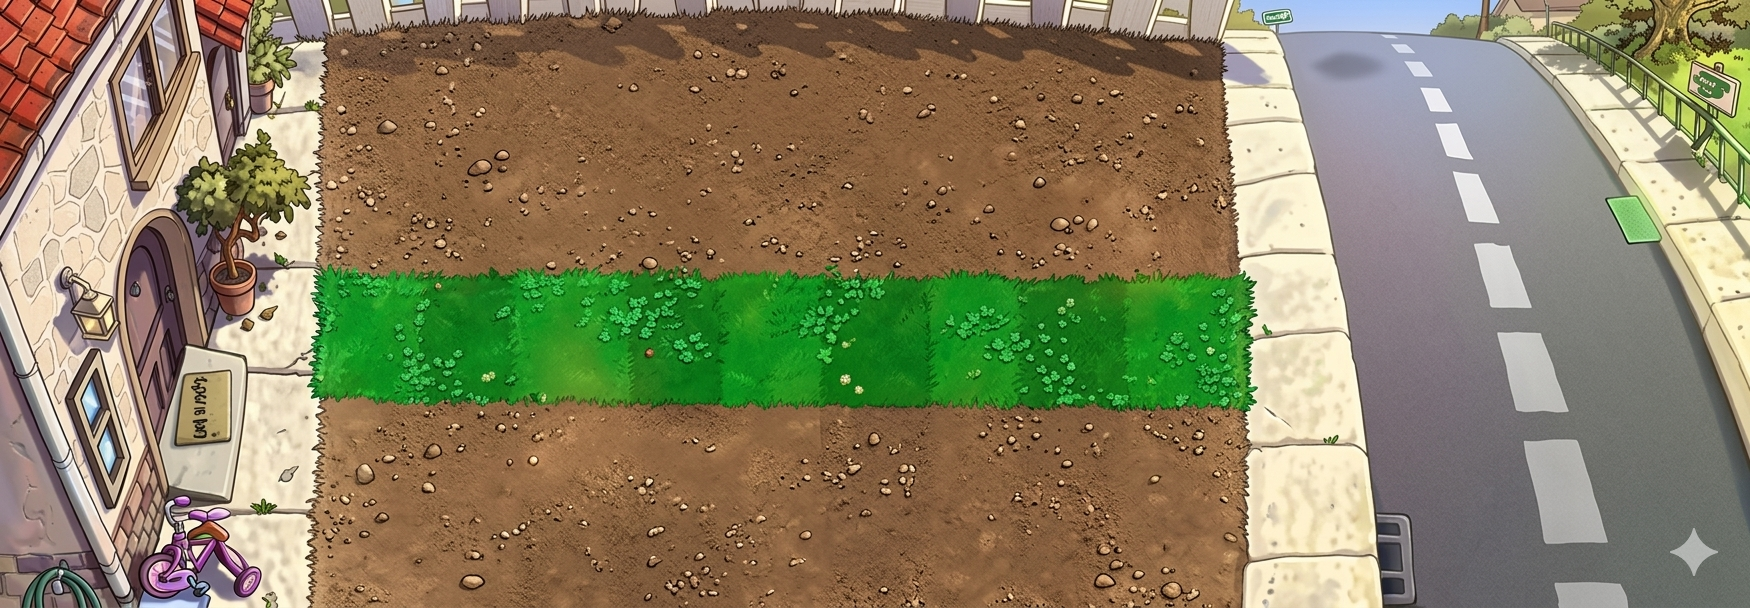
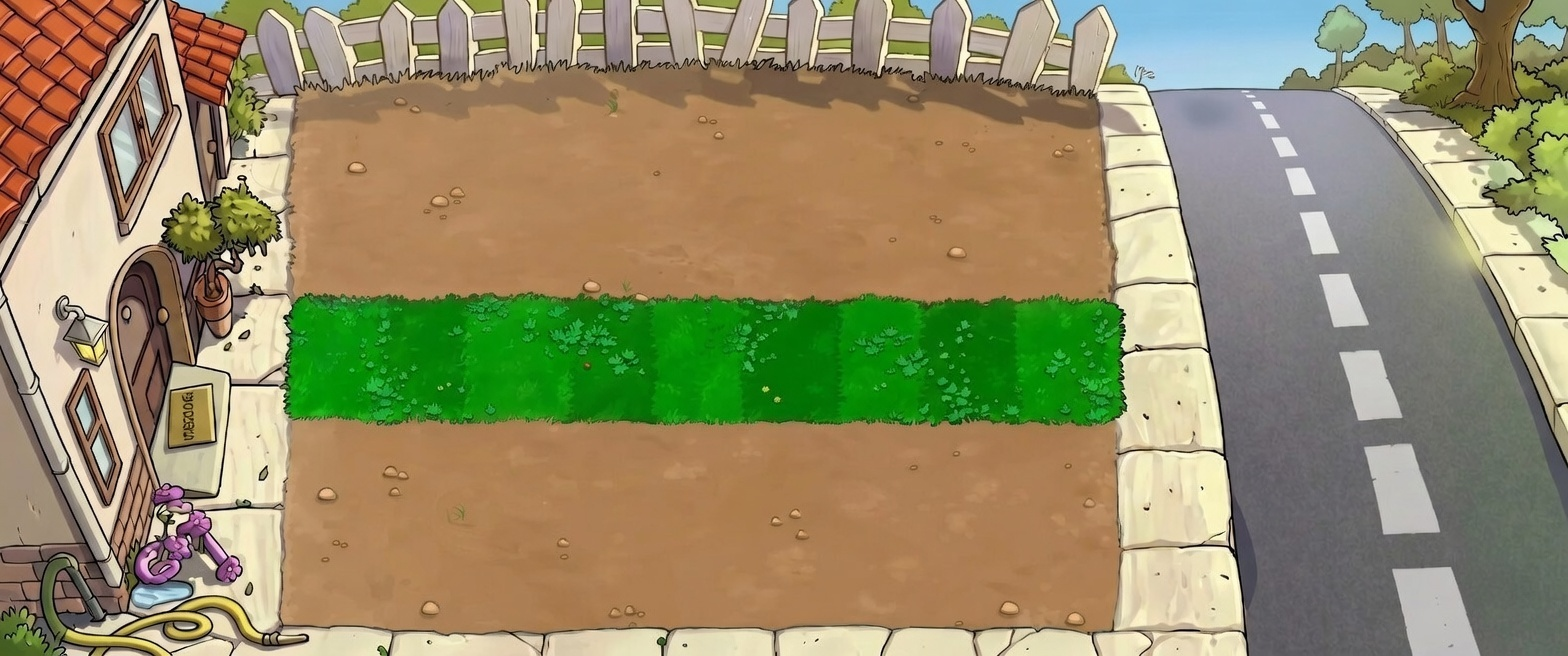
save

diff --git a/src/LevelManager.cpp b/src/LevelManager.cpp
@@ -4,76 +4,254 @@
 LevelManager::LevelManager(int level)
     : m_CurrentLevel(level) {}
 
+bool LevelManager::IsGameLevel() const {
+    return m_CurrentLevel != 0;
+}
+
 void LevelManager::LoadLevel(Util::Renderer& root) {
 
-    switch (m_CurrentLevel) {
-
-        case 0: {
-
-            m_Background = std::make_shared<Util::GameObject>(
-                std::make_shared<Util::Image>(
-                    RESOURCE_DIR"/Image/Background/startBackGround.png"
-                ),
-                -10
-            );
-
-            root.AddChild(m_Background);
-
-            auto startButton = std::make_shared<Button>(
-                RESOURCE_DIR"/Image/Other/startButton.png",
-                RESOURCE_DIR"/Image/Other/startButton_2.png"
-            );
-
-            startButton->SetZIndex(5);
-            startButton->SetScale(0.7f, 0.7f);
-            startButton->SetPosition(260.0f, 210.0f);
-
-            root.AddChild(startButton);
-            m_Buttons.push_back(startButton);
-
-            break;
-        }
-
-        case 1: {
-
-            m_Background = std::make_shared<Util::GameObject>(
-                std::make_shared<Util::Image>(
-                    RESOURCE_DIR"/Image/Background/phase1.png"
-                ),
-                -10
-            );
-
-            root.AddChild(m_Background);
-
-            break;
-        }
+    if (m_CurrentLevel == 0) {
+        m_Background = std::make_shared<Util::GameObject>(
+            std::make_shared<Util::Image>(RESOURCE_DIR"/Image/Background/startBackGround.png"),
+            -10
+        );
     }
+    else {
+        std::string path;
+
+        switch (m_CurrentLevel) {
+            case 1: path = RESOURCE_DIR"/Image/Background/phase1.png"; break;
+            case 2: path = RESOURCE_DIR"/Image/Background/phase2.png"; break;
+            case 3: path = RESOURCE_DIR"/Image/Background/phase3.png"; break;
+            default: path = RESOURCE_DIR"/Image/Background/phase3.png"; break;
+        }
+
+        m_Background = std::make_shared<Util::GameObject>(
+            std::make_shared<Util::Image>(path),
+            -10
+        );
+
+        m_Background->m_Transform.scale.x = 1.1f;
+        m_Background->m_Transform.scale.y = 1.1f;
+
+        m_Background->m_Transform.translation.x = 200.0f;
+
+        m_IntroPhase = 0;
+        m_IntroDone = false;
+        m_Timer = 0;
+    }
+
+    // ===== UI =====
+    if (m_CurrentLevel == 0) {
+        auto startButton = std::make_shared<Button>(
+            RESOURCE_DIR"/Image/Other/startButton.png",
+            RESOURCE_DIR"/Image/Other/startButton_2.png"
+        );
+
+        startButton->SetZIndex(5);
+        startButton->SetScale(0.7f, 0.7f);
+        startButton->SetPosition(260.0f, 210.0f);
+
+        root.AddChild(startButton);
+        m_Buttons.push_back(startButton);
+    }
+
+    root.AddChild(m_Background);
 }
 
 void LevelManager::Update(Util::Renderer& root) {
 
     auto mousePos = Util::Input::GetCursorPosition();
 
+    // ===== 按鈕 =====
     for (auto& btn : m_Buttons) {
-
         btn->UpdateHoverState(mousePos.x, mousePos.y);
 
         if (btn->IsClicked()) {
             ChangeLevel(1, root);
-             break;
+            return;
         }
     }
 
+    // ===== 🧩 卡片槽滑入動畫 =====
+    if (m_CardSlotActive && m_CardSlot) {
+
+        float speed = 15.0f; // 👉 控制滑下速度
+
+        if (m_CardSlot->m_Transform.translation.y > m_CardSlotTargetY) {
+            m_CardSlot->m_Transform.translation.y -= speed;
+        } else {
+            m_CardSlot->m_Transform.translation.y = m_CardSlotTargetY;
+        }
+    }
+
+    // ===== 🔤 Word動畫 =====
+    if (m_IntroDone && m_WordPhase > 0) {
+        m_WordTimer++;
+
+        auto LerpScale = [](float a, float b, float t) {
+            return a + (b - a) * t;
+        };
+
+        switch (m_WordPhase) {
+            case 1: {
+                float t = m_WordTimer / 30.0f;
+                if (t > 1.0f) t = 1.0f;
+
+                m_Word->m_Transform.scale.x = LerpScale(0.2f, 0.3f, t);
+                m_Word->m_Transform.scale.y = LerpScale(0.2f, 0.3f, t);
+
+                if (m_WordTimer > 30) {
+                    root.RemoveChild(m_Word);
+                    m_Word = std::make_shared<Util::GameObject>(
+                        std::make_shared<Util::Image>(RESOURCE_DIR"/Image/Other/word2.png"),
+                        10
+                    );
+                    root.AddChild(m_Word);
+
+                    m_WordPhase = 2;
+                    m_WordTimer = 0;
+                }
+                break;
+            }
+
+            case 2: {
+                float t = m_WordTimer / 30.0f;
+                if (t > 1.0f) t = 1.0f;
+
+                m_Word->m_Transform.scale.x = LerpScale(0.2f, 0.3f, t);
+                m_Word->m_Transform.scale.y = LerpScale(0.2f, 0.3f, t);
+
+                if (m_WordTimer > 30) {
+                    root.RemoveChild(m_Word);
+                    m_Word = std::make_shared<Util::GameObject>(
+                        std::make_shared<Util::Image>(RESOURCE_DIR"/Image/Other/word3.png"),
+                        10
+                    );
+
+                    m_Word->m_Transform.scale.x = 0.7f;
+                    m_Word->m_Transform.scale.y = 0.7f;
+
+                    root.AddChild(m_Word);
+
+                    m_WordPhase = 3;
+                    m_WordTimer = 0;
+                }
+                break;
+            }
+
+            case 3:
+                if (m_WordTimer > 70) {
+                    root.RemoveChild(m_Word);
+                    m_Word = nullptr;
+                    m_WordPhase = 0;
+                }
+                break;
+        }
+    }
+
+    // ===== 🎬 開場動畫 =====
+    if (IsGameLevel() && !m_IntroDone) {
+
+        auto EaseInOut = [](float t) {
+            return t * t * (3 - 2 * t);
+        };
+
+        switch (m_IntroPhase) {
+
+            case 0:
+                m_Timer++;
+                if (m_Timer > 60) {
+                    m_IntroPhase = 1;
+                    m_StartX = m_Background->m_Transform.translation.x;
+                    m_TargetX = -200.0f;
+                    m_Timer = 0;
+                }
+                break;
+
+            case 1: {
+                float t = m_Timer / m_Duration;
+                float eased = EaseInOut(t);
+
+                m_Background->m_Transform.translation.x =
+                    m_StartX + (m_TargetX - m_StartX) * eased;
+
+                m_Timer++;
+
+                if (t >= 1.0f) {
+                    m_IntroPhase = 2;
+                    m_Timer = 0;
+                }
+                break;
+            }
+
+            case 2:
+                m_Timer++;
+                if (m_Timer > 60) {
+                    m_IntroPhase = 3;
+                    m_StartX = m_Background->m_Transform.translation.x;
+                    m_TargetX = 180.0f;
+                    m_Timer = 0;
+                }
+                break;
+
+            case 3: {
+                float t = m_Timer / m_Duration;
+                float eased = EaseInOut(t);
+
+                m_Background->m_Transform.translation.x =
+                    m_StartX + (m_TargetX - m_StartX) * eased;
+
+                m_Timer++;
+
+                if (t >= 1.0f) {
+
+                    // ⭐ 卡片槽從畫面上方掉下來
+                    m_CardSlot = std::make_shared<Util::GameObject>(
+                        std::make_shared<Util::Image>(RESOURCE_DIR"/Image/Other/cardplot.png"),
+                        10
+                    );
+
+                    m_CardSlot->m_Transform.scale.x = 0.25f;
+                    m_CardSlot->m_Transform.scale.y = 0.25f;
+
+                    m_CardSlot->m_Transform.translation.x = -300.0f;
+                    m_CardSlot->m_Transform.translation.y = 500.0f; // 👉 畫面外上方
+
+                    root.AddChild(m_CardSlot);
+                    m_CardSlotActive = true;
+
+                    // 🔤 文字
+                    m_WordPhase = 1;
+                    m_WordTimer = 0;
+
+                    m_Word = std::make_shared<Util::GameObject>(
+                        std::make_shared<Util::Image>(RESOURCE_DIR"/Image/Other/word1.png"),
+                        10
+                    );
+
+                    root.AddChild(m_Word);
+
+                    m_IntroDone = true;
+                }
+                break;
+            }
+        }
+    }
 }
+
 void LevelManager::ChangeLevel(int level, Util::Renderer& root) {
 
-    // 移除背景
     if (m_Background) {
         root.RemoveChild(m_Background);
         m_Background = nullptr;
     }
 
-    // 移除所有按鈕
+    if (m_CardSlot) {
+        root.RemoveChild(m_CardSlot);
+        m_CardSlot = nullptr;
+    }
+
     for (auto& btn : m_Buttons) {
         root.RemoveChild(btn);
     }

diff --git a/include/LevelManager.hpp b/include/LevelManager.hpp
@@ -1,27 +1,50 @@
-#ifndef PTSD_PLANTS_VS_ZOMBIES_LEVELMANAGER_H
-#define PTSD_PLANTS_VS_ZOMBIES_LEVELMANAGER_H
+#ifndef LEVELMANAGER_HPP
+#define LEVELMANAGER_HPP
 
-#include "Util/GameObject.hpp"
-#include "Util/Image.hpp"
-#include "Util/Renderer.hpp"
-#include "Button.hpp"
-#include "Background.hpp"
 #include <memory>
 #include <vector>
+#include <string>
+#include "Util/GameObject.hpp"
+#include "Util/Renderer.hpp"
+#include "Button.hpp"
 
 class LevelManager {
 public:
-    explicit LevelManager(int level);
+    LevelManager(int level);
 
     void LoadLevel(Util::Renderer& root);
     void Update(Util::Renderer& root);
     void ChangeLevel(int level, Util::Renderer& root);
 
 private:
-    int m_CurrentLevel = 0;
+    bool IsGameLevel() const;
+
+private:
+    int m_CurrentLevel;
 
     std::shared_ptr<Util::GameObject> m_Background;
     std::vector<std::shared_ptr<Button>> m_Buttons;
+
+    // 🎬 開場動畫
+    int m_IntroPhase = 0;
+    bool m_IntroDone = false;
+
+    float m_Timer = 0.0f;
+    float m_Duration = 120.0f;
+
+    float m_StartX = 0.0f;
+    float m_TargetX = 0.0f;
+
+    // 🔤 Word動畫
+    int m_WordPhase = 0;
+    int m_WordTimer = 0;
+    std::shared_ptr<Util::GameObject> m_Word;
+
+    // 🧩 卡片槽
+    std::shared_ptr<Util::GameObject> m_CardSlot;
+    bool m_CardSlotActive = false;
+    float m_CardSlotTargetY = 315.0f; // 最終位置
+
 };
 
 #endif

diff --git a/include/PlantCard.hpp b/include/PlantCard.hpp
@@ -1,0 +1,8 @@
+//
+// Created by 江惟良 on 2026/3/19.
+//
+
+#ifndef PTSD_PLANTS_VS_ZOMBIES_PLANTCARD_HPP
+#define PTSD_PLANTS_VS_ZOMBIES_PLANTCARD_HPP
+
+#endif //PTSD_PLANTS_VS_ZOMBIES_PLANTCARD_HPP

diff --git a/src/PlantCard.cpp b/src/PlantCard.cpp
@@ -1,0 +1,5 @@
+//
+// Created by 江惟良 on 2026/3/19.
+//
+
+#include "PlantCard.hpp"
